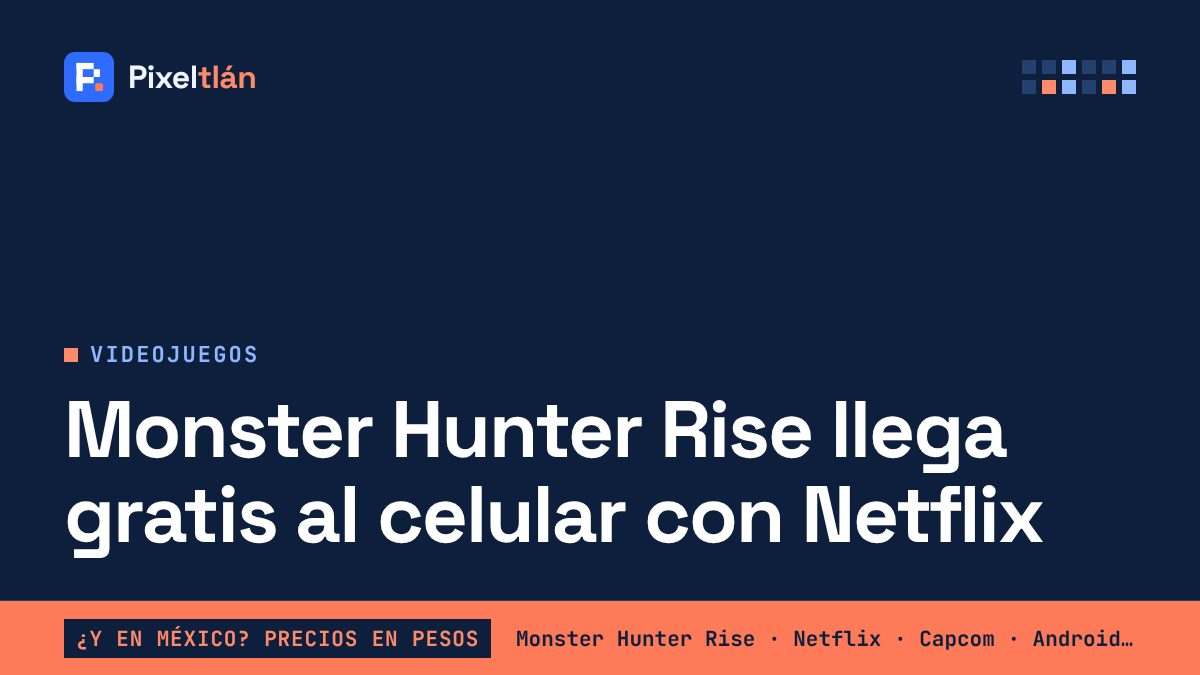
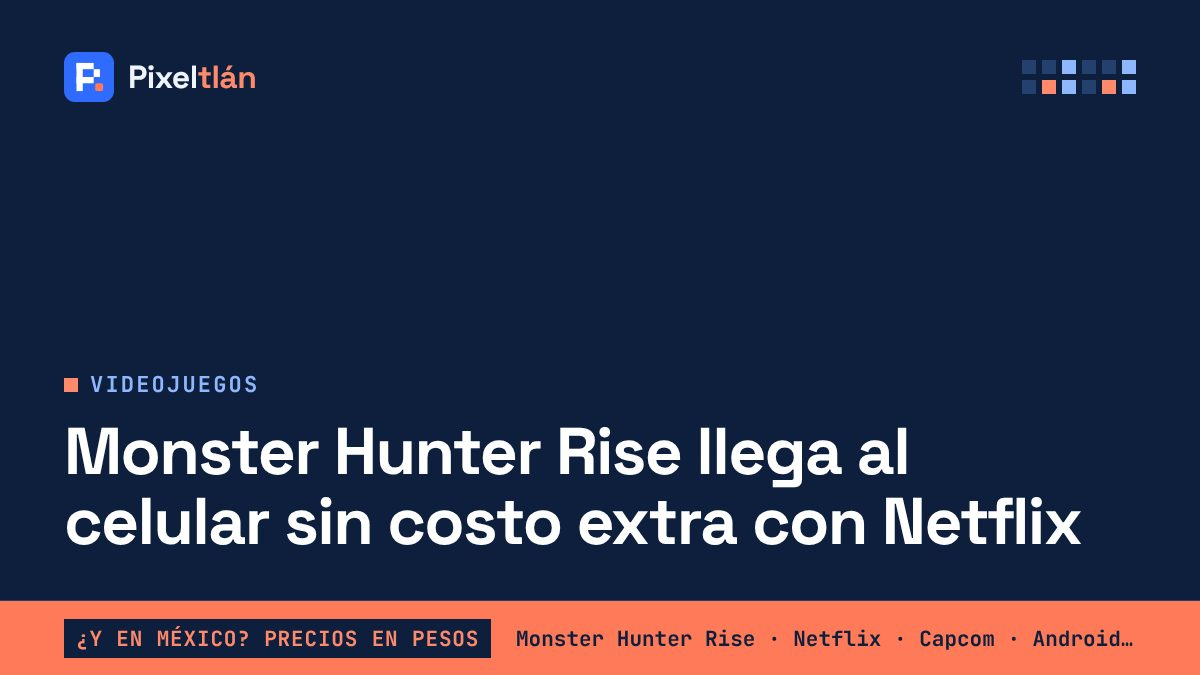
Actualiza el sitio

Changed region(s): [[0.0308, 0.4978, 0.8942, 0.84]]

diff --git a/noticias/monster-hunter-rise-netflix-celular-mexico.html b/noticias/monster-hunter-rise-netflix-celular-mexico.html
@@ -28,7 +28,7 @@
 <!-- VERIFICACION_SEARCH_CONSOLE: poner el código en config.json, campo google_verificacion -->
 <!-- GOOGLE_ANALYTICS: aquí va la etiqueta gtag.js cuando se cree la propiedad -->
 <!-- ADSENSE: aquí va el script de AdSense cuando Google apruebe el sitio -->
-<script type="application/ld+json">{"@context": "https://schema.org", "@type": "NewsArticle", "headline": "Monster Hunter Rise llega al celular sin costo extra con Netflix", "description": "Monster Hunter Rise ya está en Android, iPhone y iPad con Netflix, sin costo extra. Qué necesitas y cuánto cuesta en consola en México.", "image": ["https://pixeltlan.com/img/portadas/monster-hunter-rise-netflix-celular-mexico.jpg"], "datePublished": "2026-11-25T09:40:00-06:00", "dateModified": "2026-11-25T09:58:00-06:00", "inLanguage": "es-MX", "mainEntityOfPage": "https://pixeltlan.com/noticias/monster-hunter-rise-netflix-celular-mexico", "author": {"@type": "Organization", "name": "Redacción Pixeltlán", "url": "https://pixeltlan.com/nosotros"}, "publisher": {"@type": "Organization", "name": "Pixeltlán", "logo": {"@type": "ImageObject", "url": "https://pixeltlan.com/assets/logo.svg"}}}</script>
+<script type="application/ld+json">{"@context": "https://schema.org", "@type": "NewsArticle", "headline": "Monster Hunter Rise llega al celular sin costo extra con Netflix", "description": "Monster Hunter Rise ya está en Android, iPhone y iPad con Netflix, sin costo extra. Qué necesitas y cuánto cuesta en consola en México.", "image": ["https://occ-0-2433-2430.1.nflxso.net/dnm/api/v6/Wydle_-xnt6EDb2ELhobscDgPbM/AAAABajme9DgIA6JJXs_P3tOSOczlRN27TYEGnWgHpN1IbuvfgTdV7MGgzreHlGlZyqbMx6YylmmSAQiv7rEzbreB9h5CkzZfm3wXOLrJUxNi7f99hv7GjLXcEFDq1ntHMloeU-D7w.jpg?r=d76", "https://pixeltlan.com/img/portadas/monster-hunter-rise-netflix-celular-mexico.jpg"], "datePublished": "2026-11-25T09:40:00-06:00", "dateModified": "2026-11-25T09:58:00-06:00", "inLanguage": "es-MX", "mainEntityOfPage": "https://pixeltlan.com/noticias/monster-hunter-rise-netflix-celular-mexico", "author": {"@type": "Organization", "name": "Redacción Pixeltlán", "url": "https://pixeltlan.com/nosotros"}, "publisher": {"@type": "Organization", "name": "Pixeltlán", "logo": {"@type": "ImageObject", "url": "https://pixeltlan.com/assets/logo.svg"}}}</script>
 <script type="application/ld+json">{"@context": "https://schema.org", "@type": "BreadcrumbList", "itemListElement": [{"@type": "ListItem", "position": 1, "name": "Inicio", "item": "https://pixeltlan.com/"}, {"@type": "ListItem", "position": 2, "name": "Videojuegos", "item": "https://pixeltlan.com/categoria/videojuegos"}, {"@type": "ListItem", "position": 3, "name": "Monster Hunter Rise llega al celular sin costo extra con Netflix", "item": "https://pixeltlan.com/noticias/monster-hunter-rise-netflix-celular-mexico"}]}</script>
 </head>
 <body>
@@ -48,7 +48,7 @@
 <p class="bajada">Capcom y Netflix lanzaron el juego de cacería para celulares el 24 de noviembre; viene incluido en la suscripción.</p>
 <div class="firma"><span>Por <a href="/nosotros">Redacción Pixeltlán</a></span><span class="sep" aria-hidden="true">·</span><span><time datetime="2026-11-25T09:40:00-06:00" title="25 nov 2026, 09:40 (hora del centro de México)">25 de noviembre de 2026</time><span class="hace" data-desde="2026-11-25T09:40:00-06:00"></span></span><span class="sep" aria-hidden="true">·</span><span>Actualizado: <time datetime="2026-11-25T09:58:00-06:00">25 nov 2026, 09:58</time></span><span class="sep" aria-hidden="true">·</span><span>2 min de lectura</span></div>
 <a class="ir-mexico" href="#en-mexico"><span class="ir-titulo">¿Y en México?</span><span><strong>En PS Store México cuesta $688.79 MXN; en celular viene con Netflix</strong> · precio, fecha y tienda ↓</span></a>
-<img class="portada" src="/img/portadas/monster-hunter-rise-netflix-celular-mexico.jpg" alt="Monster Hunter Rise llega al celular sin costo extra con Netflix" width="1200" height="675" fetchpriority="high">
+<figure class="oficial"><img class="portada" src="https://occ-0-2433-2430.1.nflxso.net/dnm/api/v6/Wydle_-xnt6EDb2ELhobscDgPbM/AAAABajme9DgIA6JJXs_P3tOSOczlRN27TYEGnWgHpN1IbuvfgTdV7MGgzreHlGlZyqbMx6YylmmSAQiv7rEzbreB9h5CkzZfm3wXOLrJUxNi7f99hv7GjLXcEFDq1ntHMloeU-D7w.jpg?r=d76" alt="Arte oficial de Monster Hunter Rise Netflix para celulares" width="1200" height="675" referrerpolicy="no-referrer" onerror="this.onerror=null;this.src='/img/portadas/monster-hunter-rise-netflix-celular-mexico.jpg'" fetchpriority="high"><figcaption>Imagen: Netflix · Capcom · <a href="https://www.netflix.com/games/81978126" rel="nofollow noopener" target="_blank">fuente oficial</a></figcaption></figure>
 <p>Capcom y Netflix lanzaron el <strong>24 de noviembre</strong> una versión de <strong>Monster Hunter Rise</strong> para celulares y tablets. Se llama <em>Monster Hunter Rise Netflix</em> y está incluida en la suscripción de Netflix: no se compra aparte.</p>
 
 <p>Es el mismo juego de cacería de monstruos que salió en 2021 para Switch y después para PC, PlayStation y Xbox. Puedes cazar solo o con amigos en línea, fabricar armas y armaduras con lo que obtienes de cada monstruo y usar el cordóptero para trepar y moverte por el mapa.</p>

diff --git a/index.html b/index.html
@@ -41,8 +41,8 @@
 <nav class="temas" aria-label="Hoy se habla de"><div class="envoltura"><span class="temas-titulo">Hoy se habla de</span><ul><li><a href="/noticias/monster-hunter-rise-netflix-celular-mexico">Monster Hunter Rise en Netflix</a></li><li><a href="/noticias/gta-vi-ya-disponible-extras-precio-mexico">GTA VI ya salió</a></li><li><a href="/noticias/gta-vi-precarga-precio-mexico">Precio de GTA VI</a></li><li><a href="/noticias/gta-vi-xbox-one-nube-cuanto-cuesta-mexico">GTA VI en Xbox One</a></li><li><a href="/noticias/gta-vi-descargas-falsas-como-evitar-fraudes">Fraudes de GTA VI</a></li><li><a href="/noticias/chatgpt-wallet-compras-ia-mexico">ChatGPT Wallet</a></li><li><a href="/noticias/zelda-ocarina-of-time-switch-2-record-precio-mexico">Zelda: Ocarina of Time</a></li><li><a href="/noticias/the-game-awards-2026-nominados-horario-mexico">The Game Awards</a></li></ul></div></nav>
 <main class="envoltura inicio" id="contenido">
 <h1 class="solo-lectores">Pixeltlán: Videojuegos y tecnología para México</h1>
-<article class="hero sin-foto">
-
+<article class="hero">
+<div class="hero-media"><img class="portada" src="https://occ-0-2433-2430.1.nflxso.net/dnm/api/v6/Wydle_-xnt6EDb2ELhobscDgPbM/AAAABajme9DgIA6JJXs_P3tOSOczlRN27TYEGnWgHpN1IbuvfgTdV7MGgzreHlGlZyqbMx6YylmmSAQiv7rEzbreB9h5CkzZfm3wXOLrJUxNi7f99hv7GjLXcEFDq1ntHMloeU-D7w.jpg?r=d76" alt="Arte oficial de Monster Hunter Rise Netflix para celulares" width="1200" height="675" referrerpolicy="no-referrer" fetchpriority="high" onerror="this.onerror=null;this.closest('.hero').classList.add('sin-foto');this.remove()"></div>
 <div class="hero-texto"><span class="etiqueta-hero">Ya disponible</span>
 <h2><a href="/noticias/monster-hunter-rise-netflix-celular-mexico">Monster Hunter Rise llega al celular sin costo extra con Netflix</a></h2><p>Capcom y Netflix lanzaron el juego de cacería para celulares el 24 de noviembre; viene incluido en la suscripción.</p><p class="fecha"><time datetime="2026-11-25T09:40:00-06:00" title="25 nov 2026, 09:40 (hora del centro de México)">25 de noviembre de 2026</time><span class="hace" data-desde="2026-11-25T09:40:00-06:00"></span></p></div>
 <div class="panel-mx"><p class="panel-mx-titulo">¿Y en México?</p><p class="panel-mx-dato">En PS Store México cuesta <b>$688.79</b> MXN; en celular viene con Netflix</p></div>

diff --git a/noticias/chatgpt-wallet-compras-ia-mexico.html b/noticias/chatgpt-wallet-compras-ia-mexico.html
@@ -110,7 +110,7 @@
 <div class="texto"><span class="meta"><span class="chip" style="--cat:#00a8e8">Tecnología</span><span class="fecha"><time datetime="2026-11-11T14:19:00-06:00" title="11 nov 2026, 14:19 (hora del centro de México)">11 nov 2026</time><span class="hace" data-desde="2026-11-11T14:19:00-06:00"></span></span></span>
 <h3>Gemini 4 Carbon ya está disponible: cuánto cuesta usarlo en México</h3><span class="dato-mx"><span class="dato-mx-et">¿Y en México?</span> Incluido en Google AI Ultra: desde <b>$1,999</b> MXN/mes</span></div></a>
 <a class="tarjeta" href="/noticias/monster-hunter-rise-netflix-celular-mexico" data-categoria="videojuegos">
-<img class="portada" src="/img/portadas/monster-hunter-rise-netflix-celular-mexico.jpg" alt="" width="1200" height="675" loading="lazy">
+<img class="portada" src="https://occ-0-2433-2430.1.nflxso.net/dnm/api/v6/Wydle_-xnt6EDb2ELhobscDgPbM/AAAABajme9DgIA6JJXs_P3tOSOczlRN27TYEGnWgHpN1IbuvfgTdV7MGgzreHlGlZyqbMx6YylmmSAQiv7rEzbreB9h5CkzZfm3wXOLrJUxNi7f99hv7GjLXcEFDq1ntHMloeU-D7w.jpg?r=d76" alt="Arte oficial de Monster Hunter Rise Netflix para celulares" width="1200" height="675" referrerpolicy="no-referrer" onerror="this.onerror=null;this.src='/img/portadas/monster-hunter-rise-netflix-celular-mexico.jpg'" loading="lazy">
 <div class="texto"><span class="meta"><span class="chip" style="--cat:#7c4dff">Videojuegos</span><span class="fecha"><time datetime="2026-11-25T09:40:00-06:00" title="25 nov 2026, 09:40 (hora del centro de México)">25 nov 2026</time><span class="hace" data-desde="2026-11-25T09:40:00-06:00"></span></span></span>
 <h3>Monster Hunter Rise llega al celular sin costo extra con Netflix</h3><span class="dato-mx"><span class="dato-mx-et">¿Y en México?</span> En PS Store México cuesta <b>$688.79</b> MXN; en celular viene con Netflix</span></div></a>
 </div></section>

diff --git a/noticias/gta-vi-xbox-one-nube-cuanto-cuesta-mexico.html b/noticias/gta-vi-xbox-one-nube-cuanto-cuesta-mexico.html
@@ -108,7 +108,7 @@
 <div class="texto"><span class="meta"><span class="chip" style="--cat:#00a8e8">Tecnología</span><span class="fecha"><time datetime="2026-11-11T14:19:00-06:00" title="11 nov 2026, 14:19 (hora del centro de México)">11 nov 2026</time><span class="hace" data-desde="2026-11-11T14:19:00-06:00"></span></span></span>
 <h3>Gemini 4 Carbon ya está disponible: cuánto cuesta usarlo en México</h3><span class="dato-mx"><span class="dato-mx-et">¿Y en México?</span> Incluido en Google AI Ultra: desde <b>$1,999</b> MXN/mes</span></div></a>
 <a class="tarjeta" href="/noticias/monster-hunter-rise-netflix-celular-mexico" data-categoria="videojuegos">
-<img class="portada" src="/img/portadas/monster-hunter-rise-netflix-celular-mexico.jpg" alt="" width="1200" height="675" loading="lazy">
+<img class="portada" src="https://occ-0-2433-2430.1.nflxso.net/dnm/api/v6/Wydle_-xnt6EDb2ELhobscDgPbM/AAAABajme9DgIA6JJXs_P3tOSOczlRN27TYEGnWgHpN1IbuvfgTdV7MGgzreHlGlZyqbMx6YylmmSAQiv7rEzbreB9h5CkzZfm3wXOLrJUxNi7f99hv7GjLXcEFDq1ntHMloeU-D7w.jpg?r=d76" alt="Arte oficial de Monster Hunter Rise Netflix para celulares" width="1200" height="675" referrerpolicy="no-referrer" onerror="this.onerror=null;this.src='/img/portadas/monster-hunter-rise-netflix-celular-mexico.jpg'" loading="lazy">
 <div class="texto"><span class="meta"><span class="chip" style="--cat:#7c4dff">Videojuegos</span><span class="fecha"><time datetime="2026-11-25T09:40:00-06:00" title="25 nov 2026, 09:40 (hora del centro de México)">25 nov 2026</time><span class="hace" data-desde="2026-11-25T09:40:00-06:00"></span></span></span>
 <h3>Monster Hunter Rise llega al celular sin costo extra con Netflix</h3><span class="dato-mx"><span class="dato-mx-et">¿Y en México?</span> En PS Store México cuesta <b>$688.79</b> MXN; en celular viene con Netflix</span></div></a>
 </div></section>

diff --git a/noticias/gemini-4-carbon-disponible-precio-mexico.html b/noticias/gemini-4-carbon-disponible-precio-mexico.html
@@ -106,7 +106,7 @@
 <div class="texto"><span class="meta"><span class="chip" style="--cat:#00a8e8">Tecnología</span><span class="fecha"><time datetime="2026-11-16T13:12:00-06:00" title="16 nov 2026, 13:12 (hora del centro de México)">16 nov 2026</time><span class="hace" data-desde="2026-11-16T13:12:00-06:00"></span></span></span>
 <h3>ChatGPT ya puede comprar por ti: ¿se puede usar en México?</h3><span class="dato-mx"><span class="dato-mx-et">¿Y en México?</span> Aún no disponible: pide tarjeta de EE. UU.</span></div></a>
 <a class="tarjeta" href="/noticias/monster-hunter-rise-netflix-celular-mexico" data-categoria="videojuegos">
-<img class="portada" src="/img/portadas/monster-hunter-rise-netflix-celular-mexico.jpg" alt="" width="1200" height="675" loading="lazy">
+<img class="portada" src="https://occ-0-2433-2430.1.nflxso.net/dnm/api/v6/Wydle_-xnt6EDb2ELhobscDgPbM/AAAABajme9DgIA6JJXs_P3tOSOczlRN27TYEGnWgHpN1IbuvfgTdV7MGgzreHlGlZyqbMx6YylmmSAQiv7rEzbreB9h5CkzZfm3wXOLrJUxNi7f99hv7GjLXcEFDq1ntHMloeU-D7w.jpg?r=d76" alt="Arte oficial de Monster Hunter Rise Netflix para celulares" width="1200" height="675" referrerpolicy="no-referrer" onerror="this.onerror=null;this.src='/img/portadas/monster-hunter-rise-netflix-celular-mexico.jpg'" loading="lazy">
 <div class="texto"><span class="meta"><span class="chip" style="--cat:#7c4dff">Videojuegos</span><span class="fecha"><time datetime="2026-11-25T09:40:00-06:00" title="25 nov 2026, 09:40 (hora del centro de México)">25 nov 2026</time><span class="hace" data-desde="2026-11-25T09:40:00-06:00"></span></span></span>
 <h3>Monster Hunter Rise llega al celular sin costo extra con Netflix</h3><span class="dato-mx"><span class="dato-mx-et">¿Y en México?</span> En PS Store México cuesta <b>$688.79</b> MXN; en celular viene con Netflix</span></div></a>
 </div></section>

diff --git a/categoria/videojuegos.html b/categoria/videojuegos.html
@@ -43,7 +43,7 @@
 <section class="cabecera"><span class="chip">Sección</span><h1>Videojuegos</h1><p>Noticias de videojuegos con precios, fechas y disponibilidad en México.</p></section>
 <div class="pixeles" aria-hidden="true"><i></i><i></i><i></i><i></i><i></i><i></i><i></i><i></i><i></i></div>
 <div class="rejilla"><div class="tarjetas"><a class="tarjeta" href="/noticias/monster-hunter-rise-netflix-celular-mexico" data-categoria="videojuegos">
-<img class="portada" src="/img/portadas/monster-hunter-rise-netflix-celular-mexico.jpg" alt="" width="1200" height="675" loading="lazy">
+<img class="portada" src="https://occ-0-2433-2430.1.nflxso.net/dnm/api/v6/Wydle_-xnt6EDb2ELhobscDgPbM/AAAABajme9DgIA6JJXs_P3tOSOczlRN27TYEGnWgHpN1IbuvfgTdV7MGgzreHlGlZyqbMx6YylmmSAQiv7rEzbreB9h5CkzZfm3wXOLrJUxNi7f99hv7GjLXcEFDq1ntHMloeU-D7w.jpg?r=d76" alt="Arte oficial de Monster Hunter Rise Netflix para celulares" width="1200" height="675" referrerpolicy="no-referrer" onerror="this.onerror=null;this.src='/img/portadas/monster-hunter-rise-netflix-celular-mexico.jpg'" loading="lazy">
 <div class="texto"><span class="meta"><span class="chip" style="--cat:#7c4dff">Videojuegos</span><span class="fecha"><time datetime="2026-11-25T09:40:00-06:00" title="25 nov 2026, 09:40 (hora del centro de México)">25 nov 2026</time><span class="hace" data-desde="2026-11-25T09:40:00-06:00"></span></span></span>
 <h3>Monster Hunter Rise llega al celular sin costo extra con Netflix</h3><span class="dato-mx"><span class="dato-mx-et">¿Y en México?</span> En PS Store México cuesta <b>$688.79</b> MXN; en celular viene con Netflix</span></div></a>
 <a class="tarjeta" href="/noticias/gta-vi-ya-disponible-extras-precio-mexico" data-categoria="videojuegos">

diff --git a/noticias/gta-vi-ya-disponible-extras-precio-mexico.html b/noticias/gta-vi-ya-disponible-extras-precio-mexico.html
@@ -120,7 +120,7 @@
 </aside>
 </div>
 <section class="relacionadas"><h2>Más noticias</h2><div class="tarjetas"><a class="tarjeta" href="/noticias/monster-hunter-rise-netflix-celular-mexico" data-categoria="videojuegos">
-<img class="portada" src="/img/portadas/monster-hunter-rise-netflix-celular-mexico.jpg" alt="" width="1200" height="675" loading="lazy">
+<img class="portada" src="https://occ-0-2433-2430.1.nflxso.net/dnm/api/v6/Wydle_-xnt6EDb2ELhobscDgPbM/AAAABajme9DgIA6JJXs_P3tOSOczlRN27TYEGnWgHpN1IbuvfgTdV7MGgzreHlGlZyqbMx6YylmmSAQiv7rEzbreB9h5CkzZfm3wXOLrJUxNi7f99hv7GjLXcEFDq1ntHMloeU-D7w.jpg?r=d76" alt="Arte oficial de Monster Hunter Rise Netflix para celulares" width="1200" height="675" referrerpolicy="no-referrer" onerror="this.onerror=null;this.src='/img/portadas/monster-hunter-rise-netflix-celular-mexico.jpg'" loading="lazy">
 <div class="texto"><span class="meta"><span class="chip" style="--cat:#7c4dff">Videojuegos</span><span class="fecha"><time datetime="2026-11-25T09:40:00-06:00" title="25 nov 2026, 09:40 (hora del centro de México)">25 nov 2026</time><span class="hace" data-desde="2026-11-25T09:40:00-06:00"></span></span></span>
 <h3>Monster Hunter Rise llega al celular sin costo extra con Netflix</h3><span class="dato-mx"><span class="dato-mx-et">¿Y en México?</span> En PS Store México cuesta <b>$688.79</b> MXN; en celular viene con Netflix</span></div></a>
 <a class="tarjeta" href="/noticias/the-game-awards-2026-nominados-horario-mexico" data-categoria="videojuegos">

diff --git a/noticias/gta-vi-descargas-falsas-como-evitar-fraudes.html b/noticias/gta-vi-descargas-falsas-como-evitar-fraudes.html
@@ -106,7 +106,7 @@
 </aside>
 </div>
 <section class="relacionadas"><h2>Más noticias</h2><div class="tarjetas"><a class="tarjeta" href="/noticias/monster-hunter-rise-netflix-celular-mexico" data-categoria="videojuegos">
-<img class="portada" src="/img/portadas/monster-hunter-rise-netflix-celular-mexico.jpg" alt="" width="1200" height="675" loading="lazy">
+<img class="portada" src="https://occ-0-2433-2430.1.nflxso.net/dnm/api/v6/Wydle_-xnt6EDb2ELhobscDgPbM/AAAABajme9DgIA6JJXs_P3tOSOczlRN27TYEGnWgHpN1IbuvfgTdV7MGgzreHlGlZyqbMx6YylmmSAQiv7rEzbreB9h5CkzZfm3wXOLrJUxNi7f99hv7GjLXcEFDq1ntHMloeU-D7w.jpg?r=d76" alt="Arte oficial de Monster Hunter Rise Netflix para celulares" width="1200" height="675" referrerpolicy="no-referrer" onerror="this.onerror=null;this.src='/img/portadas/monster-hunter-rise-netflix-celular-mexico.jpg'" loading="lazy">
 <div class="texto"><span class="meta"><span class="chip" style="--cat:#7c4dff">Videojuegos</span><span class="fecha"><time datetime="2026-11-25T09:40:00-06:00" title="25 nov 2026, 09:40 (hora del centro de México)">25 nov 2026</time><span class="hace" data-desde="2026-11-25T09:40:00-06:00"></span></span></span>
 <h3>Monster Hunter Rise llega al celular sin costo extra con Netflix</h3><span class="dato-mx"><span class="dato-mx-et">¿Y en México?</span> En PS Store México cuesta <b>$688.79</b> MXN; en celular viene con Netflix</span></div></a>
 <a class="tarjeta" href="/noticias/gta-vi-ya-disponible-extras-precio-mexico" data-categoria="videojuegos">

diff --git a/noticias/gta-vi-precarga-precio-mexico.html b/noticias/gta-vi-precarga-precio-mexico.html
@@ -121,7 +121,7 @@
 </aside>
 </div>
 <section class="relacionadas"><h2>Más noticias</h2><div class="tarjetas"><a class="tarjeta" href="/noticias/monster-hunter-rise-netflix-celular-mexico" data-categoria="videojuegos">
-<img class="portada" src="/img/portadas/monster-hunter-rise-netflix-celular-mexico.jpg" alt="" width="1200" height="675" loading="lazy">
+<img class="portada" src="https://occ-0-2433-2430.1.nflxso.net/dnm/api/v6/Wydle_-xnt6EDb2ELhobscDgPbM/AAAABajme9DgIA6JJXs_P3tOSOczlRN27TYEGnWgHpN1IbuvfgTdV7MGgzreHlGlZyqbMx6YylmmSAQiv7rEzbreB9h5CkzZfm3wXOLrJUxNi7f99hv7GjLXcEFDq1ntHMloeU-D7w.jpg?r=d76" alt="Arte oficial de Monster Hunter Rise Netflix para celulares" width="1200" height="675" referrerpolicy="no-referrer" onerror="this.onerror=null;this.src='/img/portadas/monster-hunter-rise-netflix-celular-mexico.jpg'" loading="lazy">
 <div class="texto"><span class="meta"><span class="chip" style="--cat:#7c4dff">Videojuegos</span><span class="fecha"><time datetime="2026-11-25T09:40:00-06:00" title="25 nov 2026, 09:40 (hora del centro de México)">25 nov 2026</time><span class="hace" data-desde="2026-11-25T09:40:00-06:00"></span></span></span>
 <h3>Monster Hunter Rise llega al celular sin costo extra con Netflix</h3><span class="dato-mx"><span class="dato-mx-et">¿Y en México?</span> En PS Store México cuesta <b>$688.79</b> MXN; en celular viene con Netflix</span></div></a>
 <a class="tarjeta" href="/noticias/gta-vi-ya-disponible-extras-precio-mexico" data-categoria="videojuegos">

diff --git a/noticias/playstation-ofertas-imperdibles-buen-fin-2026.html b/noticias/playstation-ofertas-imperdibles-buen-fin-2026.html
@@ -130,7 +130,7 @@
 </aside>
 </div>
 <section class="relacionadas"><h2>Más noticias</h2><div class="tarjetas"><a class="tarjeta" href="/noticias/monster-hunter-rise-netflix-celular-mexico" data-categoria="videojuegos">
-<img class="portada" src="/img/portadas/monster-hunter-rise-netflix-celular-mexico.jpg" alt="" width="1200" height="675" loading="lazy">
+<img class="portada" src="https://occ-0-2433-2430.1.nflxso.net/dnm/api/v6/Wydle_-xnt6EDb2ELhobscDgPbM/AAAABajme9DgIA6JJXs_P3tOSOczlRN27TYEGnWgHpN1IbuvfgTdV7MGgzreHlGlZyqbMx6YylmmSAQiv7rEzbreB9h5CkzZfm3wXOLrJUxNi7f99hv7GjLXcEFDq1ntHMloeU-D7w.jpg?r=d76" alt="Arte oficial de Monster Hunter Rise Netflix para celulares" width="1200" height="675" referrerpolicy="no-referrer" onerror="this.onerror=null;this.src='/img/portadas/monster-hunter-rise-netflix-celular-mexico.jpg'" loading="lazy">
 <div class="texto"><span class="meta"><span class="chip" style="--cat:#7c4dff">Videojuegos</span><span class="fecha"><time datetime="2026-11-25T09:40:00-06:00" title="25 nov 2026, 09:40 (hora del centro de México)">25 nov 2026</time><span class="hace" data-desde="2026-11-25T09:40:00-06:00"></span></span></span>
 <h3>Monster Hunter Rise llega al celular sin costo extra con Netflix</h3><span class="dato-mx"><span class="dato-mx-et">¿Y en México?</span> En PS Store México cuesta <b>$688.79</b> MXN; en celular viene con Netflix</span></div></a>
 <a class="tarjeta" href="/noticias/gta-vi-ya-disponible-extras-precio-mexico" data-categoria="videojuegos">

diff --git a/noticias/ps-plus-noviembre-2026.html b/noticias/ps-plus-noviembre-2026.html
@@ -103,7 +103,7 @@
 </aside>
 </div>
 <section class="relacionadas"><h2>Más noticias</h2><div class="tarjetas"><a class="tarjeta" href="/noticias/monster-hunter-rise-netflix-celular-mexico" data-categoria="videojuegos">
-<img class="portada" src="/img/portadas/monster-hunter-rise-netflix-celular-mexico.jpg" alt="" width="1200" height="675" loading="lazy">
+<img class="portada" src="https://occ-0-2433-2430.1.nflxso.net/dnm/api/v6/Wydle_-xnt6EDb2ELhobscDgPbM/AAAABajme9DgIA6JJXs_P3tOSOczlRN27TYEGnWgHpN1IbuvfgTdV7MGgzreHlGlZyqbMx6YylmmSAQiv7rEzbreB9h5CkzZfm3wXOLrJUxNi7f99hv7GjLXcEFDq1ntHMloeU-D7w.jpg?r=d76" alt="Arte oficial de Monster Hunter Rise Netflix para celulares" width="1200" height="675" referrerpolicy="no-referrer" onerror="this.onerror=null;this.src='/img/portadas/monster-hunter-rise-netflix-celular-mexico.jpg'" loading="lazy">
 <div class="texto"><span class="meta"><span class="chip" style="--cat:#7c4dff">Videojuegos</span><span class="fecha"><time datetime="2026-11-25T09:40:00-06:00" title="25 nov 2026, 09:40 (hora del centro de México)">25 nov 2026</time><span class="hace" data-desde="2026-11-25T09:40:00-06:00"></span></span></span>
 <h3>Monster Hunter Rise llega al celular sin costo extra con Netflix</h3><span class="dato-mx"><span class="dato-mx-et">¿Y en México?</span> En PS Store México cuesta <b>$688.79</b> MXN; en celular viene con Netflix</span></div></a>
 <a class="tarjeta" href="/noticias/gta-vi-ya-disponible-extras-precio-mexico" data-categoria="videojuegos">

diff --git a/noticias/the-game-awards-2026-nominados-horario-mexico.html b/noticias/the-game-awards-2026-nominados-horario-mexico.html
@@ -102,7 +102,7 @@
 </aside>
 </div>
 <section class="relacionadas"><h2>Más noticias</h2><div class="tarjetas"><a class="tarjeta" href="/noticias/monster-hunter-rise-netflix-celular-mexico" data-categoria="videojuegos">
-<img class="portada" src="/img/portadas/monster-hunter-rise-netflix-celular-mexico.jpg" alt="" width="1200" height="675" loading="lazy">
+<img class="portada" src="https://occ-0-2433-2430.1.nflxso.net/dnm/api/v6/Wydle_-xnt6EDb2ELhobscDgPbM/AAAABajme9DgIA6JJXs_P3tOSOczlRN27TYEGnWgHpN1IbuvfgTdV7MGgzreHlGlZyqbMx6YylmmSAQiv7rEzbreB9h5CkzZfm3wXOLrJUxNi7f99hv7GjLXcEFDq1ntHMloeU-D7w.jpg?r=d76" alt="Arte oficial de Monster Hunter Rise Netflix para celulares" width="1200" height="675" referrerpolicy="no-referrer" onerror="this.onerror=null;this.src='/img/portadas/monster-hunter-rise-netflix-celular-mexico.jpg'" loading="lazy">
 <div class="texto"><span class="meta"><span class="chip" style="--cat:#7c4dff">Videojuegos</span><span class="fecha"><time datetime="2026-11-25T09:40:00-06:00" title="25 nov 2026, 09:40 (hora del centro de México)">25 nov 2026</time><span class="hace" data-desde="2026-11-25T09:40:00-06:00"></span></span></span>
 <h3>Monster Hunter Rise llega al celular sin costo extra con Netflix</h3><span class="dato-mx"><span class="dato-mx-et">¿Y en México?</span> En PS Store México cuesta <b>$688.79</b> MXN; en celular viene con Netflix</span></div></a>
 <a class="tarjeta" href="/noticias/gta-vi-ya-disponible-extras-precio-mexico" data-categoria="videojuegos">
